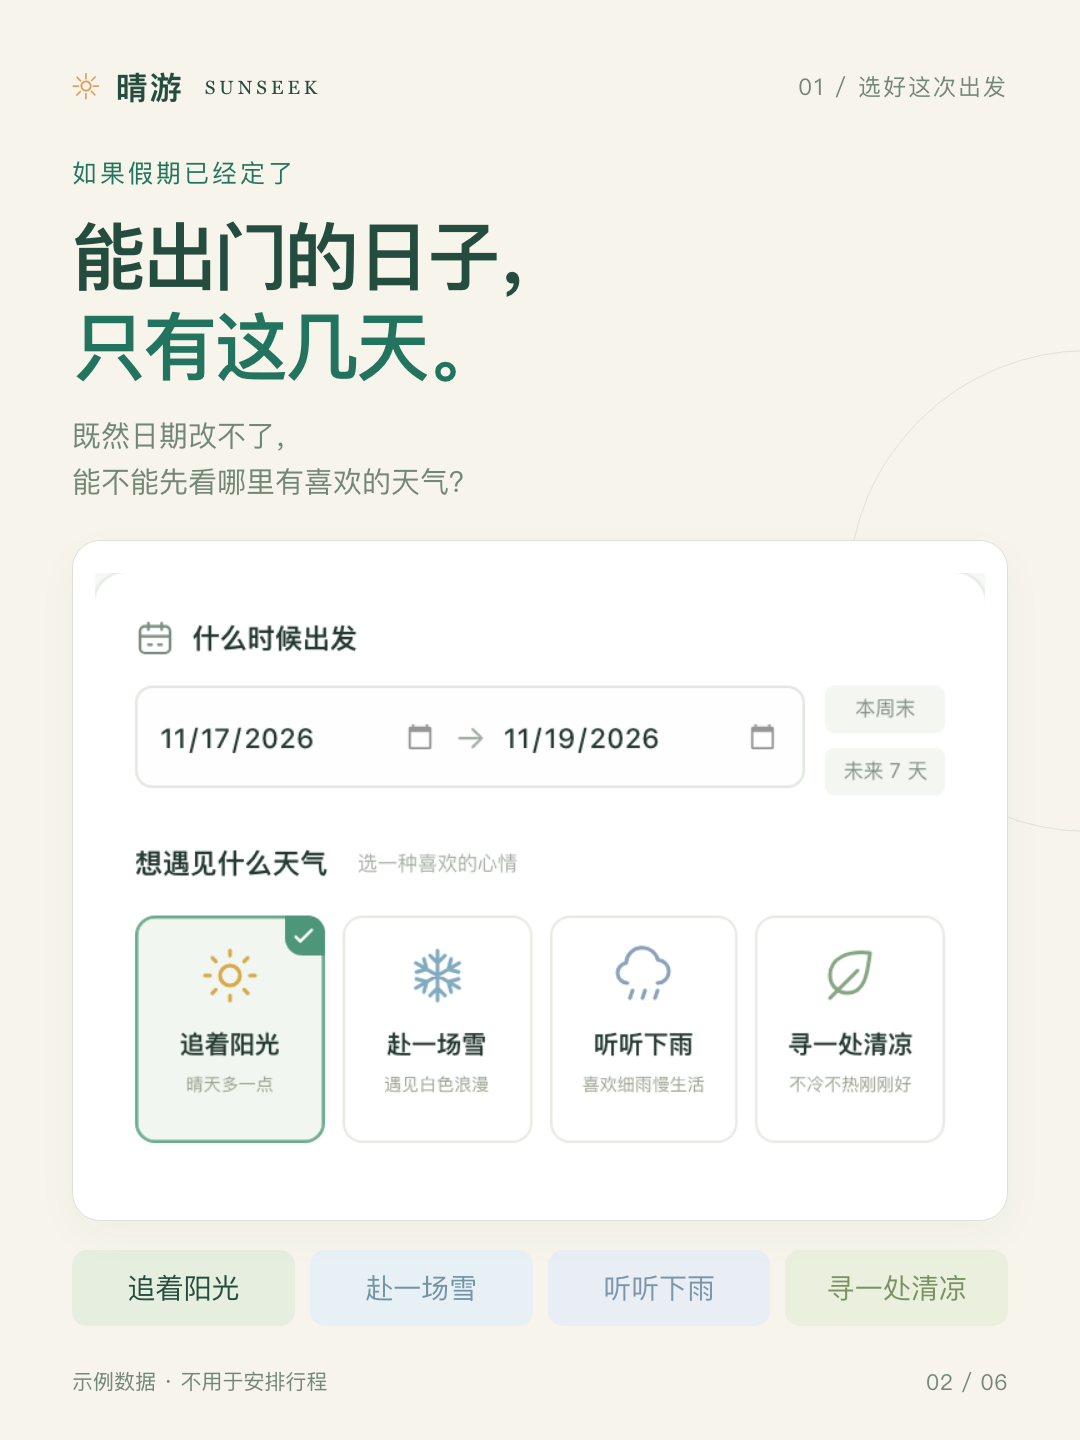
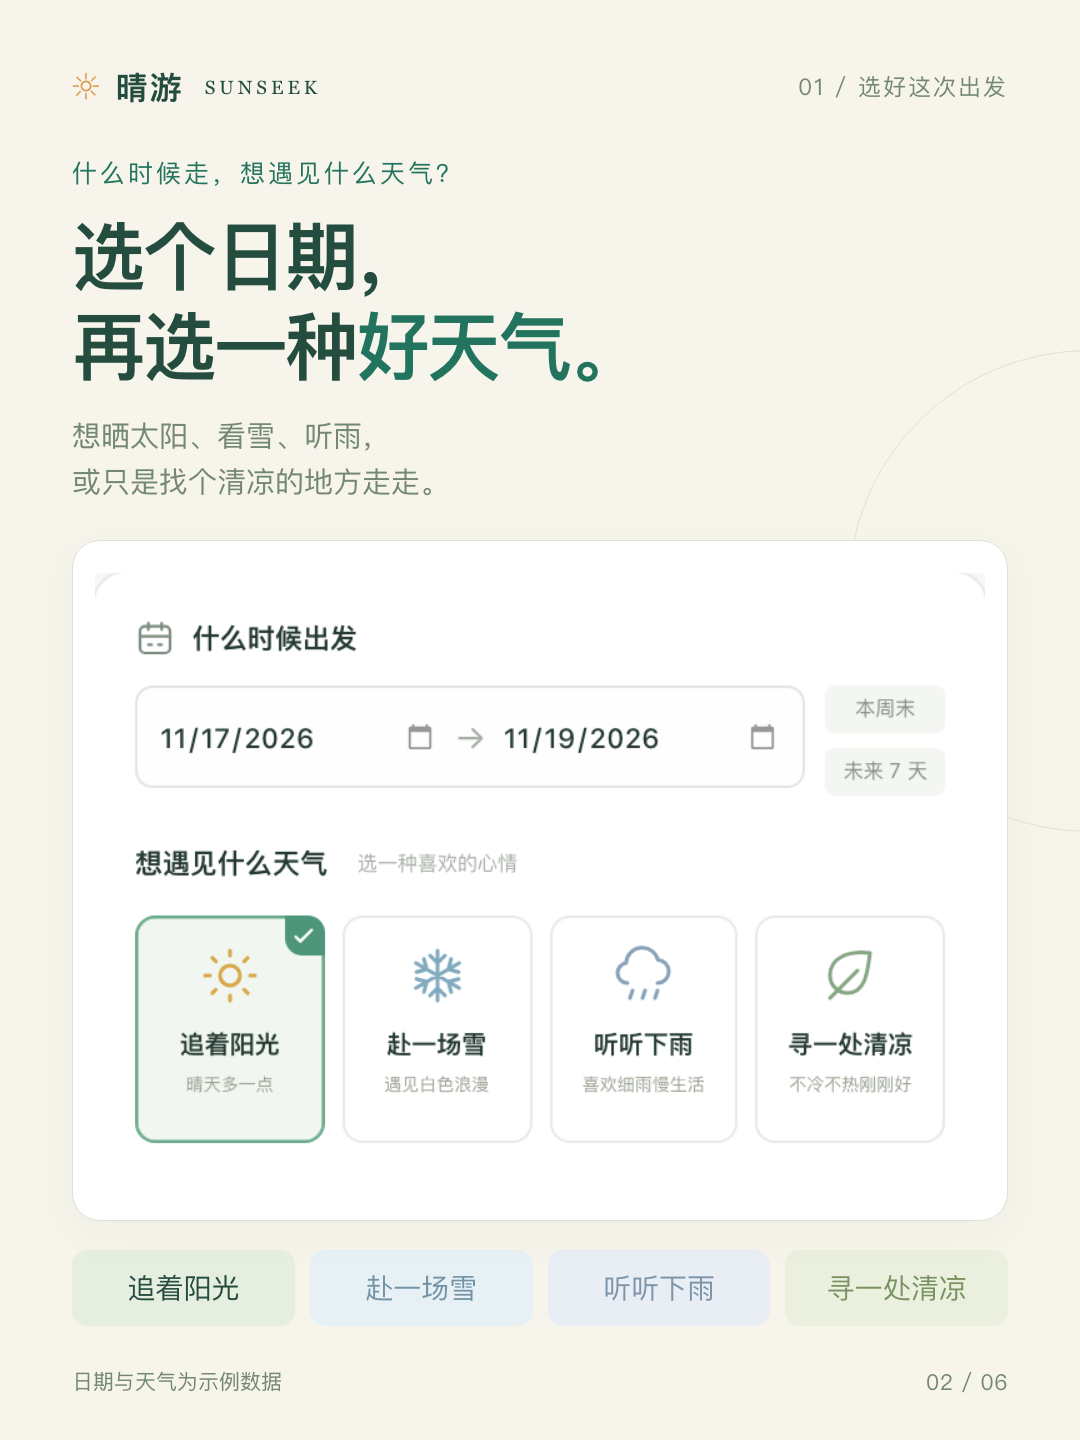
docs: restore original poster copy and simplify map slide

Changed region(s): [[0.0611, 0.1562, 0.55, 0.3438], [0.0611, 0.0938, 0.3972, 0.125], [0.0611, 0.9375, 0.3056, 0.9688]]

diff --git a/marketing/xiaohongshu/launch-04/slides.html b/marketing/xiaohongshu/launch-04/slides.html
@@ -31,41 +31,40 @@
 
 <section class="slide cover" id="slide-01" data-export="01-cover">
  <img class="cover-art" src="../launch-01/art/cover-landscape.png" alt="原创晴山与阳光插画">
- <div class="top"><div class="brand"><span class="sun">☼</span>晴游 <small>SUNSEEK</small></div><span class="pill">关于下一次出发</span></div>
- <div class="intro"><div class="kicker">只是想找个好天气出去走走</div><h1>周末有空，<br>却不知道<em>去哪。</em></h1><p class="sub">目的地还没定，<br>想遇见的天气却很清楚。</p></div>
+ <div class="top"><div class="brand"><span class="sun">☼</span>晴游 <small>SUNSEEK</small></div><span class="pill">从天气出发</span></div>
+ <div class="intro"><div class="kicker">从喜欢的天气，找到旅行灵感</div><h1>周末去哪？<br>先找<em>好天气吧。</em></h1><p class="sub">先看看哪里有喜欢的天气，<br>再决定下一站。</p></div>
  <div class="cover-side"><div class="little-rule"></div><div class="lead">想晒太阳，<br>也想去远方。</div><div class="tagline">选日期 · 选天气<br>看看哪些地方更合拍</div></div>
- <div class="phone"><div class="phone-bar">晴游 · 天气与旅行</div><div class="phone-screen"><img src="screens/map.png" alt="晴游手机天气地图的片段"></div></div>
+ <div class="phone"><div class="phone-bar">晴游 · 天气与旅行</div><div class="phone-screen"><img src="screens/map.png" alt="晴游手机天气地图"></div></div>
  <div class="footer"><span class="demo">示例数据 · 不用于安排行程</span><span>01 / 06</span></div>
 </section>
 
 <section class="slide preferences" id="slide-02" data-export="02-preferences">
  <div class="top"><div class="brand"><span class="sun">☼</span>晴游 <small>SUNSEEK</small></div><span class="chapter">01 / 选好这次出发</span></div>
- <div class="intro"><div class="kicker">如果假期已经定了</div><h1>能出门的日子，<br><em>只有这几天。</em></h1><p class="sub">既然日期改不了，<br>能不能先看哪里有喜欢的天气？</p></div>
+ <div class="intro"><div class="kicker">什么时候走，想遇见什么天气？</div><h1>选个日期，<br>再选一种<em>好天气。</em></h1><p class="sub">想晒太阳、看雪、听雨，<br>或只是找个清凉的地方走走。</p></div>
  <div class="image-panel"><img src="screens/preference-main.png" alt="手机端出发日期与晴雪雨凉四种偏好"></div>
  <div class="moods"><span>追着阳光</span><span>赴一场雪</span><span>听听下雨</span><span>寻一处清凉</span></div>
- <div class="footer"><span class="demo">示例数据 · 不用于安排行程</span><span>02 / 06</span></div>
+ <div class="footer"><span class="demo">日期与天气为示例数据</span><span>02 / 06</span></div>
 </section>
 
 <section class="slide map" id="slide-03" data-export="03-map">
  <div class="top"><div class="brand"><span class="sun">☼</span>晴游 <small>SUNSEEK</small></div><span class="chapter">02 / 找到心动的地方</span></div>
- <div class="intro"><div class="kicker">想去的地方多，查起来却有点累</div><h1>城市太多，<br>不想<em>一个个查。</em></h1><p class="sub">先看看哪里天气合适，<br>再从全国慢慢缩小范围。</p></div>
+ <div class="intro"><div class="kicker">不用挨个查一长串城市</div><h1>把好天气，<br>放在<em>地图上。</em></h1><p class="sub">先看看全国，再慢慢缩小范围。<br>点进城市，还能查看详细预报。</p></div>
  <div class="image-panel"><img src="screens/map-canvas.png" alt="示例天气分布地图"></div>
- <div class="bottom-note"><div class="steps"><span class="step">全国</span><span class="arrow">→</span><span class="step">大区</span><span class="arrow">→</span><span class="step">省份</span><span class="arrow">→</span><span class="step">城市</span></div></div>
  <div class="footer"><span class="demo">地图颜色与温度为示例数据</span><span>03 / 06</span></div>
 </section>
 
 <section class="slide dates" id="slide-04" data-export="04-dates">
  <div class="top"><div class="brand"><span class="sun">☼</span>晴游 <small>SUNSEEK</small></div><span class="chapter">03 / 比一比出发日期</span></div>
- <div class="intro"><div class="kicker">喜欢一座城，日期却还没定</div><h1>地方选好了，<br><em>哪几天去更合适？</em></h1><p class="sub">选想玩几天，找更合拍的一段出发。</p></div>
+ <div class="intro"><div class="kicker">喜欢一座城，日期却还没定</div><h1>这座城，哪几天<br><em>更适合去？</em></h1><p class="sub">选想玩几天，找更合拍的一段出发。</p></div>
  <div class="example">以大理为例 · 连续出行日期建议</div>
- <div class="image-panel"><img src="screens/departure-preview.png" alt="大理日期建议的产品示例，所有数值均为示例"></div>
+ <div class="image-panel"><img src="screens/departure-preview.png" alt="大理的连续出行日期建议，所有数值均为示例"></div>
  <div class="footer"><span class="demo">示例预报与分数，不是实时天气或发生概率</span><span>04 / 06</span></div>
 </section>
 
 <section class="slide search" id="slide-05" data-export="05-search">
  <div class="top"><div class="brand"><span class="sun">☼</span>晴游 <small>SUNSEEK</small></div><span class="chapter">04 / 也去看看小地方</span></div>
- <div class="intro"><div class="kicker">目的地，不只有大城市</div><h1>想去的小地方，<br>也想查到<em>当地天气。</em></h1><p class="sub">试着搜搜县城、小镇和岛屿，<br>选中地点后，再查看当地天气。</p></div>
- <div class="image-panel"><img src="screens/search.png" alt="搜索宁海县的真实手机本地检索画面"></div>
+ <div class="intro"><div class="kicker">目的地，不只有大城市</div><h1>大城市之外，<br>也想找个<em>小地方。</em></h1><p class="sub">试着搜搜县城、小镇和岛屿，<br>选中地点后，再查看当地天气。</p></div>
+ <div class="image-panel"><img src="screens/search.png" alt="搜索宁海县的手机本地检索结果"></div>
  <div class="queries"><span>宁海县</span><span>象山县</span><span>慈溪市</span><span>花鸟岛</span></div>
  <div class="bottom-note">先看看天气，再决定要不要保存。<br><span class="note">地点覆盖仍在完善，暂不保证所有地名均可检索。</span></div>
  <div class="footer"><span>以本地搜索结果为例</span><span>05 / 06</span></div>

diff --git a/marketing/xiaohongshu/launch-04/overview.html b/marketing/xiaohongshu/launch-04/overview.html
@@ -1,1 +1,1 @@
-<!doctype html><meta charset="utf-8"><title>晴游 · 六图总览</title><style>body{margin:0;padding:28px;background:#e8eae2;font-family:"PingFang SC",sans-serif;color:#244d40}h1{font-size:26px;margin:0 0 22px}main{display:grid;grid-template-columns:repeat(3,360px);gap:24px}figure{margin:0}img{display:block;width:360px;height:480px;border-radius:8px;box-shadow:0 3px 18px #244d4018}figcaption{padding-top:10px;font-size:15px}</style><h1>晴游 · 关于下一次出发 / 六图总览</h1><main><figure><img src="exports/01-cover.png"><figcaption>01-cover.png</figcaption></figure><figure><img src="exports/02-preferences.png"><figcaption>02-preferences.png</figcaption></figure><figure><img src="exports/03-map.png"><figcaption>03-map.png</figcaption></figure><figure><img src="exports/04-dates.png"><figcaption>04-dates.png</figcaption></figure><figure><img src="exports/05-search.png"><figcaption>05-search.png</figcaption></figure><figure><img src="exports/06-feedback.png"><figcaption>06-feedback.png</figcaption></figure></main>
+<!doctype html><meta charset="utf-8"><title>晴游 · 六图总览</title><style>body{margin:0;padding:28px;background:#e8eae2;font-family:"PingFang SC",sans-serif;color:#244d40}h1{font-size:26px;margin:0 0 22px}main{display:grid;grid-template-columns:repeat(3,360px);gap:24px}figure{margin:0}img{display:block;width:360px;height:480px;border-radius:8px;box-shadow:0 3px 18px #244d4018}figcaption{padding-top:10px;font-size:15px}</style><h1>晴游 · 周末去哪？先找好天气吧。 / 六图总览</h1><main><figure><img src="exports/01-cover.png"><figcaption>01-cover.png</figcaption></figure><figure><img src="exports/02-preferences.png"><figcaption>02-preferences.png</figcaption></figure><figure><img src="exports/03-map.png"><figcaption>03-map.png</figcaption></figure><figure><img src="exports/04-dates.png"><figcaption>04-dates.png</figcaption></figure><figure><img src="exports/05-search.png"><figcaption>05-search.png</figcaption></figure><figure><img src="exports/06-feedback.png"><figcaption>06-feedback.png</figcaption></figure></main>

diff --git a/marketing/xiaohongshu/launch-04/render.py b/marketing/xiaohongshu/launch-04/render.py
@@ -16,7 +16,7 @@ with sync_playwright() as p:
   slide.screenshot(path=str(ROOT/'exports'/(slide.get_attribute('data-export')+'.png')))
  # Overview is composed in HTML from untouched final exports.
  cards=''.join(f'<figure><img src="exports/{path.name}"><figcaption>{path.name}</figcaption></figure>' for path in sorted((ROOT/'exports').glob('*.png')))
- overview='<!doctype html><meta charset="utf-8"><title>晴游 · 六图总览</title><style>body{margin:0;padding:28px;background:#e8eae2;font-family:"PingFang SC",sans-serif;color:#244d40}h1{font-size:26px;margin:0 0 22px}main{display:grid;grid-template-columns:repeat(3,360px);gap:24px}figure{margin:0}img{display:block;width:360px;height:480px;border-radius:8px;box-shadow:0 3px 18px #244d4018}figcaption{padding-top:10px;font-size:15px}</style><h1>晴游 · 关于下一次出发 / 六图总览</h1><main>'+cards+'</main>'
+ overview='<!doctype html><meta charset="utf-8"><title>晴游 · 六图总览</title><style>body{margin:0;padding:28px;background:#e8eae2;font-family:"PingFang SC",sans-serif;color:#244d40}h1{font-size:26px;margin:0 0 22px}main{display:grid;grid-template-columns:repeat(3,360px);gap:24px}figure{margin:0}img{display:block;width:360px;height:480px;border-radius:8px;box-shadow:0 3px 18px #244d4018}figcaption{padding-top:10px;font-size:15px}</style><h1>晴游 · 周末去哪？先找好天气吧。 / 六图总览</h1><main>'+cards+'</main>'
  (ROOT/'overview.html').write_text(overview)
  page.set_viewport_size({'width':1184,'height':1140})
  page.goto((ROOT/'overview.html').as_uri(),wait_until='networkidle')

diff --git a/marketing/xiaohongshu/launch-04/README.md b/marketing/xiaohongshu/launch-04/README.md
@@ -1,6 +1,8 @@
-# 晴游 · 关于下一次出发
+# 晴游 · 周末去哪？先找好天气吧。
 
-按用户最新澄清，保留网站手机截图，替换标题、正文、图外说明及截图中的指定文字，不再全部改成文字卡片。保留明确的“示例数据”标注，天气与评分不改写、不冒充实时预报。
+图片文案恢复为 `launch-02` 的介绍方式，标题统一为“周末去哪？先找好天气吧。”；仅针对用户指定的用词调整相关说明。继续使用已核对过的手机截图，并保留明确的“示例数据”标注，天气与评分不改写、不冒充实时预报。
+
+第三页删除整段“全国 → 大区 → 省份 → 城市”流程条，保留地图与查看详细预报的说明。
 
 - `post.md`：对外标题与正文。
 - `exports/`：六张 1080 × 1440 PNG。
@@ -15,7 +17,7 @@
 
 ## 个人主页上线后的文案调整
 
-`post.md` 已围绕“先看天气，再选目的地”精简，保留正在做「晴游」的创作背景，并以“也和其他小作品一起，整理在主页”衔接作品入口。正文不放网址、二维码或私信领取提示，继续保留配图的示例数据说明。本次只改文案，六张配图沿用；下载包中的 `发布文案.md` 已同步更新。
+`post.md` 保留正在做「晴游」的创作背景，并以“也和其他小作品一起，整理在主页”衔接作品入口。正文不放网址、二维码或私信领取提示，继续保留配图的示例数据说明。当前下载包包含恢复原版表达后的六张配图与同步更新的 `发布文案.md`。
 
 个人简介可参考此前选定的写法：
 

diff --git a/marketing/xiaohongshu/launch-04/post.md b/marketing/xiaohongshu/launch-04/post.md
@@ -1,6 +1,6 @@
 # 标题
 
-周末去哪儿，能不能先问问天气
+周末去哪？先找好天气吧。
 
 # 正文
 
